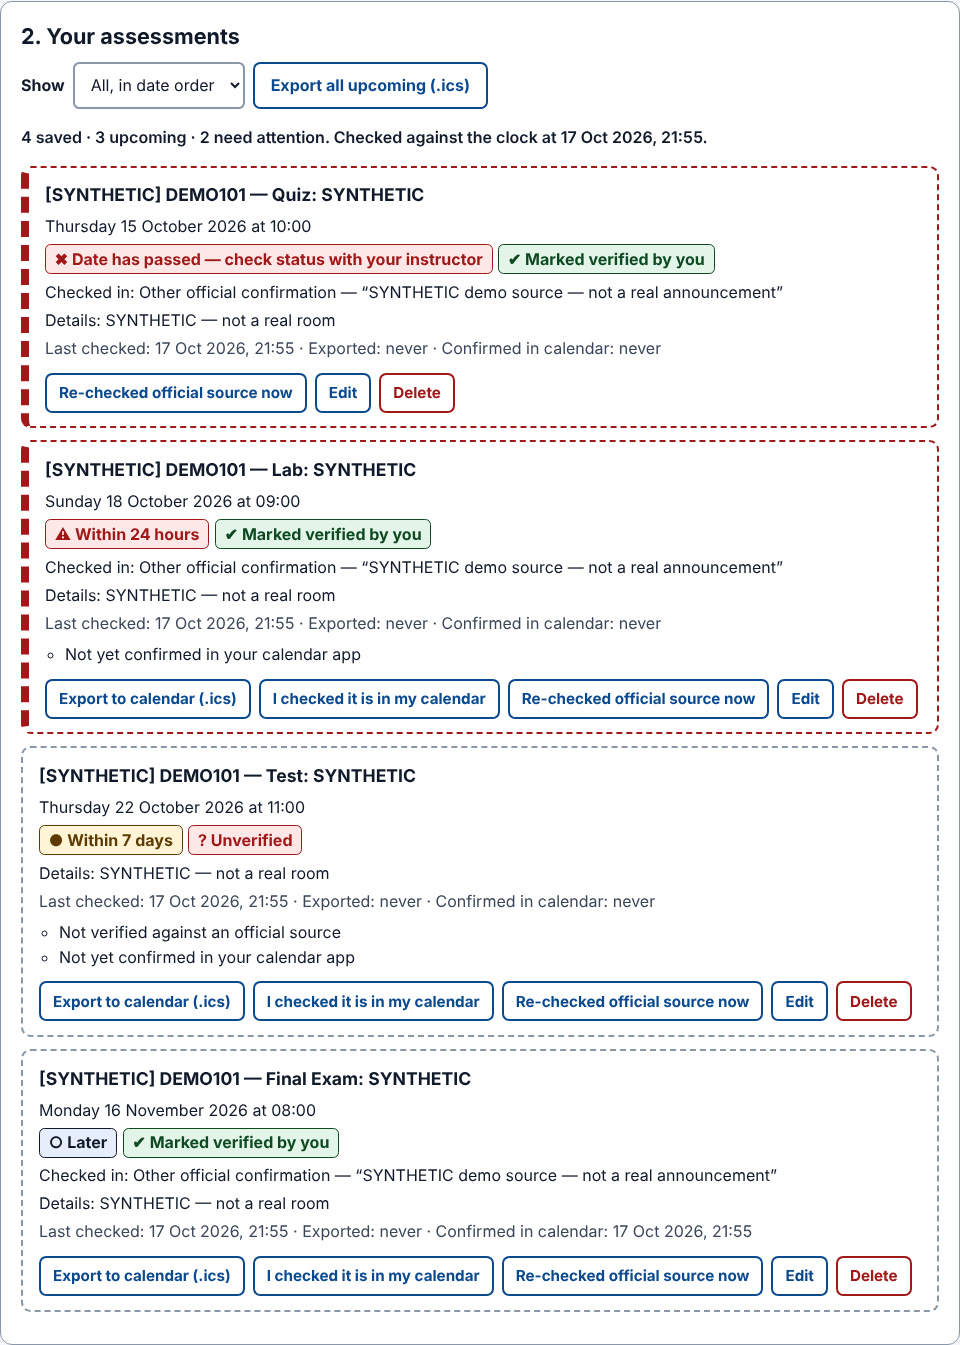
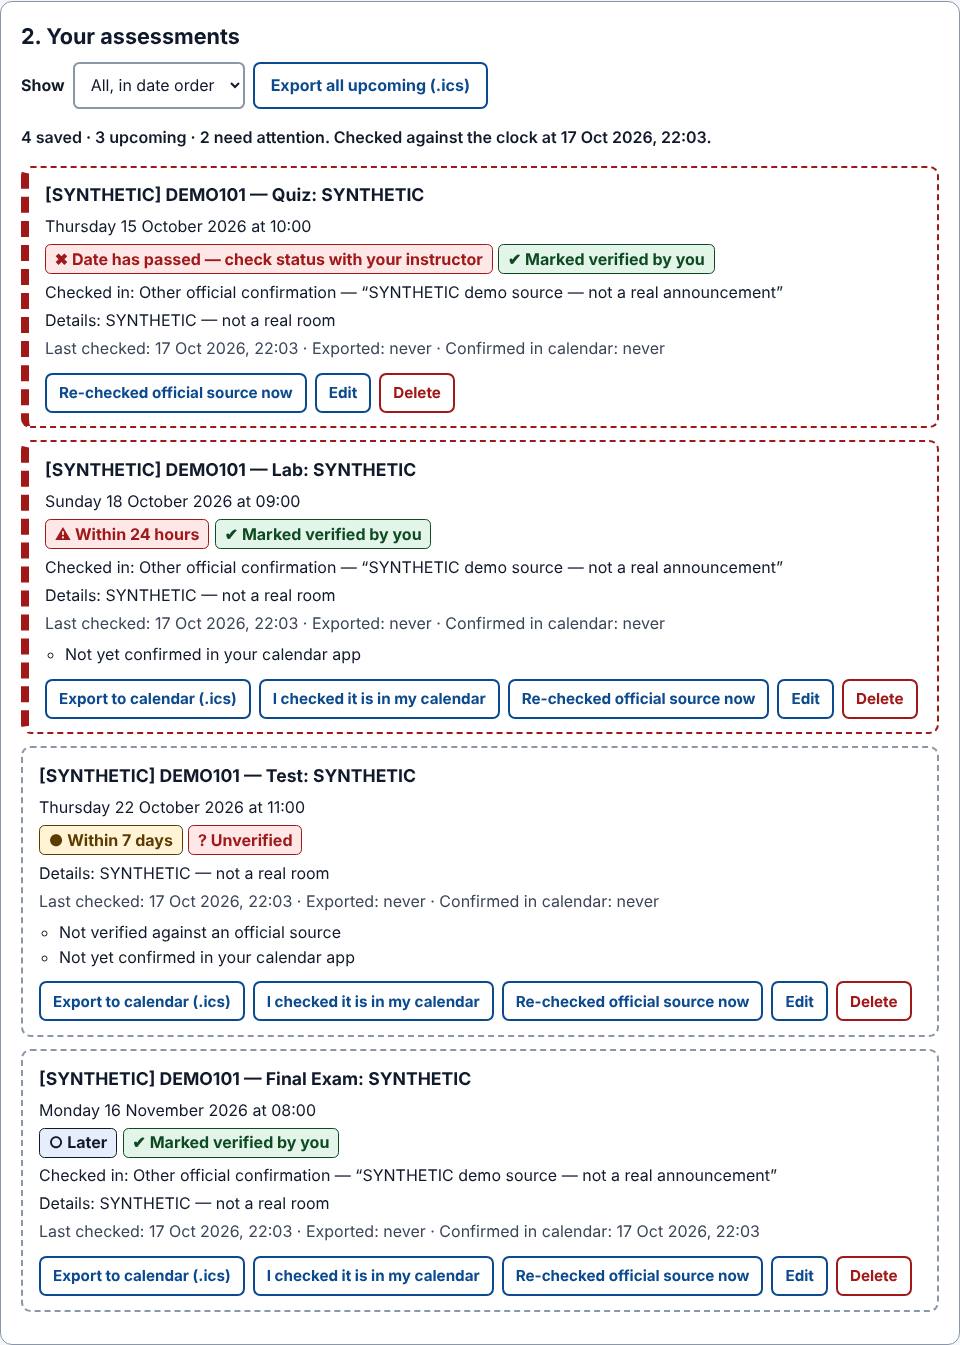
fix(assessment-guard): radio labels reflow at 320px with 200% text in wide fonts
CI (DejaVu Sans) showed 340px > 320px from the 'unverified' radio label.
Smoke check now names the overflowing elements.

Claude-Session: https://claude.ai/code/session_01BP2JtDKVXmB96QpJNeDuNS

diff --git a/apps/assessment-guard/styles.css b/apps/assessment-guard/styles.css
@@ -132,6 +132,10 @@ label {
   font-weight: 650;
   margin-bottom: 0.3rem;
 }
+label.choice > span {
+  min-width: 0;
+  overflow-wrap: anywhere;
+}
 label.choice {
   font-weight: 400;
   display: flex;
@@ -364,7 +368,10 @@ code {
     font-size: 1.6rem;
   }
   .panel {
-    padding: 1rem 0.85rem;
+    padding: 1rem 0.6rem;
+  }
+  fieldset.field {
+    padding: 0.5rem 0.5rem;
   }
   .actions .btn,
   .list-controls .btn {
